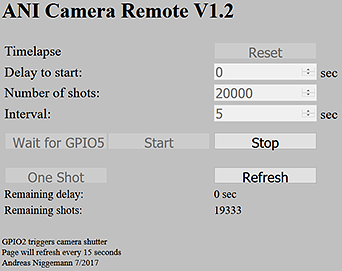
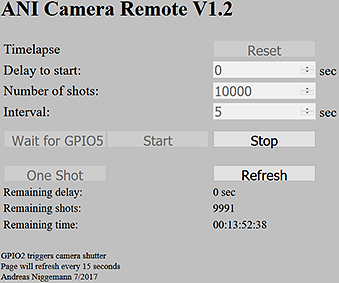
Autostart timelapse mode at power on Display remaining time

diff --git a/README.md b/README.md
@@ -50,16 +50,20 @@ Usage
 * At any time it is possible to stop the timelapse operation by pressing "Stop"
 * Timelapse mode only: "Refresh" will show how many seconds are left to start the timelapse and how many shots are left 
 * During timelapse mode the webGUI will refresh its page every 15 seconds
+* The remaining time for timelapse mode will be displayed in the form of Days:Hours:Minutes:Seconds
+* The total time can be calculated - without starting the timelapse mode - by entering the values for delay, number of shots and interval and then pressing the "Wait for GPIO" button
 * "Reset" will reset the delay to start, the number of shots and the time between shots to their default values
 * There is no need to shutdown the ESP8266, just remove the power
 
-"Headless" Mode
+"Headless" Mode and Autostart
 -
 * For the "headless" mode, configure all settings in the program and then upload it to the device
 * From then on, by triggering the start pin (e.g. GPIO5) the timelapse mode will start with these settings without the need to make a WiFi connection to the device
 * Use a push button or a sensor which connect the start pin to GND for a short time
 * Timelapse will start only after the low to high transition on the start pin
 * This mode comes in handy for wildlife photography etc.
+* Autostart works the same way, except a separate trigger on a GPIO pin is not needed
+* If autostart is enabled, the timelapse mode will start immediately as soon as power is applied
 
 Settings
 -
@@ -73,6 +77,7 @@ The settings can be changed at the beginning of the file ANI_CameraRemote.ino
 * default_numberOfShots = 10 - Number of shots in timelapse mode
 * default_delayBetweenShots = 5 - Delay between shots in timelapse mode
 * default_autorefresh = 15 - In timelapse mode autorefresh webGUI every 15 seconds, 0 = autorefresh off
+* timelapseAutoStart = 0 - Autostart timelapse mode = 1, No autostart = 0
 
 Why you should choose a NodeMCU over any other ESP8266 device
 -
